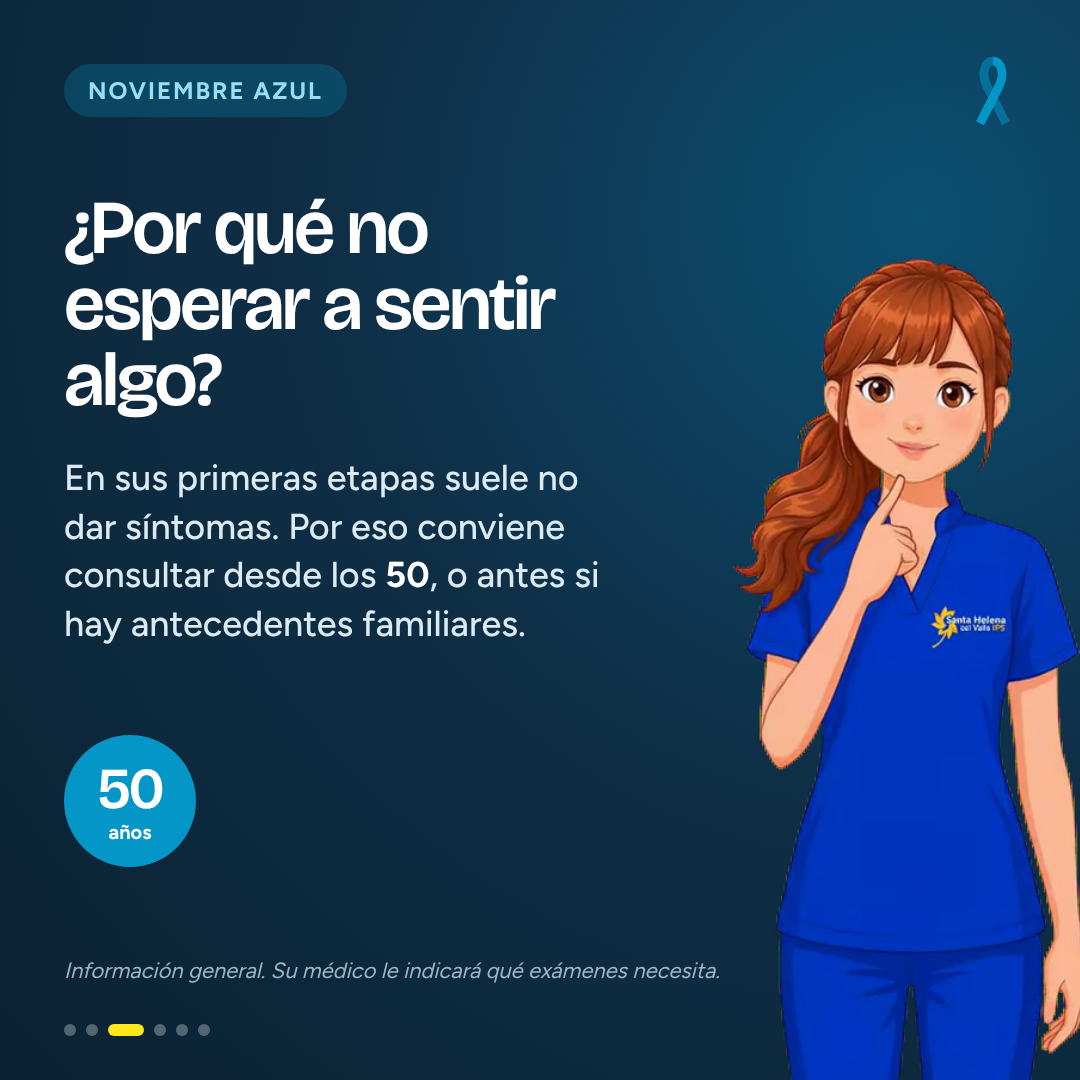
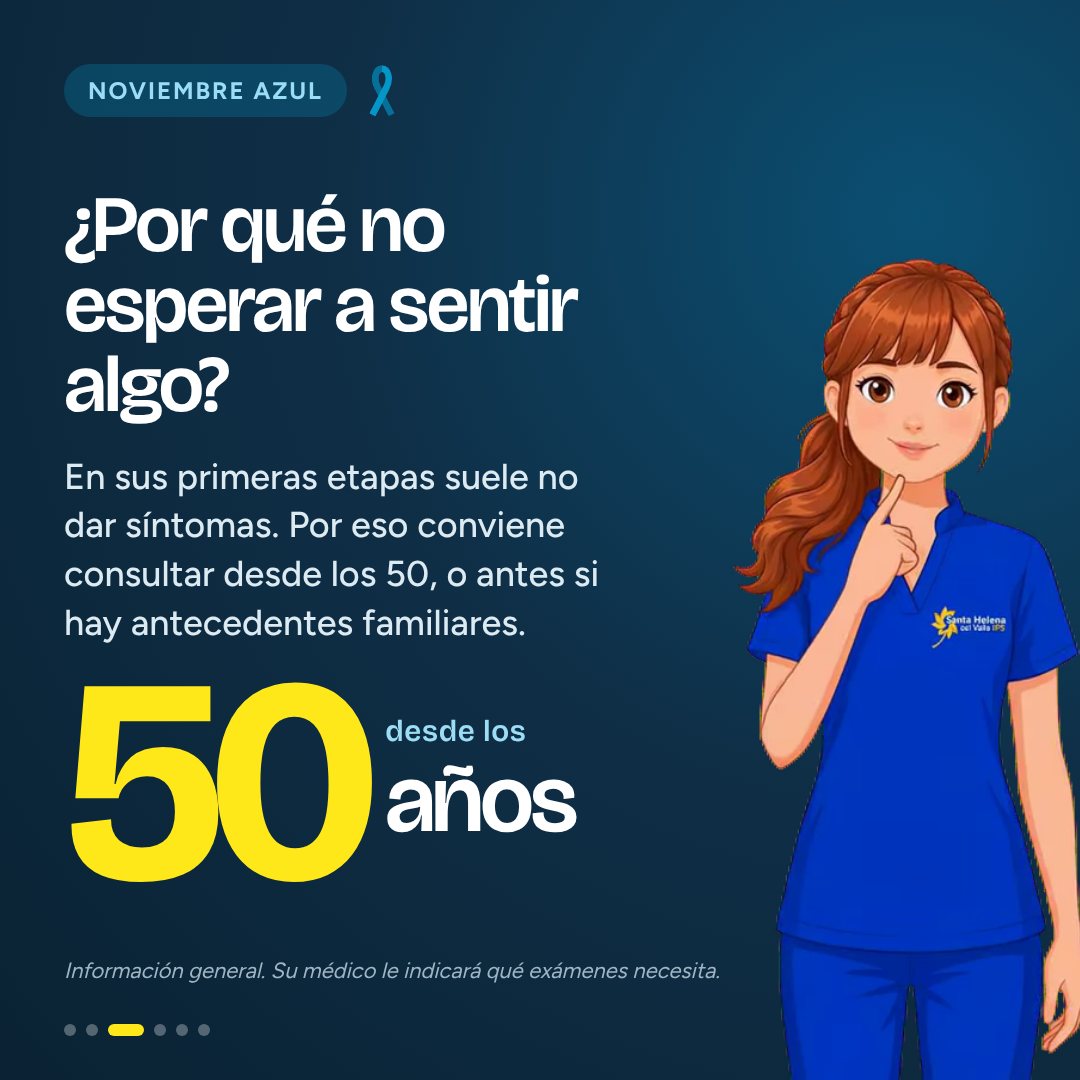
Carrusel Noviembre Azul v2: correcciones del dueño en láminas 3, 4 y 5 y alineación
Claude-Session: https://claude.ai/code/session_01KgBCaN2Nb7mn6jAyyriR7q

diff --git a/entregas/creativo-instagram/2026-10-30-carrusel-noviembre-azul/fuente/carrusel.html b/entregas/creativo-instagram/2026-10-30-carrusel-noviembre-azul/fuente/carrusel.html
@@ -52,14 +52,17 @@ h2{font-size:76px}
   </defs>
 </svg>
 
+<style>
+.col{position:absolute;left:64px;display:flex;flex-direction:column;justify-content:center;align-items:flex-start}
+</style>
 <!-- 1 PORTADA -->
 <section class="slide dark" id="l1">
   <img class="flor" src="img/sol.png" style="right:-160px;top:-180px">
   <img class="logo" src="img/logo-lema.png" style="left:64px;top:56px;width:250px">
-  <svg class="liston" style="left:64px;top:250px;width:70px;height:105px"><use href="#liston"/></svg>
-  <div style="position:absolute;left:64px;top:380px;width:600px">
+  <div class="col" style="top:210px;bottom:110px;width:600px">
+    <svg style="width:64px;height:96px;margin-bottom:30px"><use href="#liston"/></svg>
     <h1>Noviembre <span class="azul">Azul</span>: cuidarse también es de hombres</h1>
-    <p class="apoyo" style="margin-top:36px;width:520px">Hola, soy Helenita, de Santa Helena del Valle IPS. Este mes le cuento cómo cuidar la salud del hombre.</p>
+    <p class="apoyo" style="margin-top:34px;width:520px">Hola, soy Helenita, de Santa Helena del Valle IPS. Este mes le cuento cómo cuidar la salud del hombre.</p>
   </div>
   <img class="helenita" src="img/helenita-saludar.png" style="right:-250px">
   <div class="pie"><div class="puntos"><i class="on"></i><i></i><i></i><i></i><i></i><i></i></div><span style="margin-right:330px;opacity:.85">Deslice →</span></div>
@@ -70,10 +73,10 @@ h2{font-size:76px}
   <img class="flor" src="img/sol.png" style="left:-200px;bottom:-260px">
   <img class="logo" src="img/logo.png" style="right:64px;top:56px;width:190px">
   <div style="position:absolute;left:64px;top:64px"><span class="etiqueta">Noviembre Azul</span></div>
-  <svg class="liston" style="left:64px;top:190px;width:150px;height:225px"><use href="#liston"/></svg>
-  <div style="position:absolute;left:64px;top:450px;width:500px">
+  <div class="col" style="top:170px;bottom:110px;width:520px">
+    <svg style="width:120px;height:180px;margin-bottom:36px"><use href="#liston"/></svg>
     <h2>¿Qué es Noviembre Azul?</h2>
-    <p class="apoyo" style="margin-top:32px">Durante este mes hablamos de la salud del hombre. El listón azul invita a prevenir el cáncer de próstata, sin pena.</p>
+    <p class="apoyo" style="margin-top:30px;width:500px">Durante este mes hablamos de la salud del hombre. El listón azul invita a prevenir el cáncer de próstata, sin pena.</p>
   </div>
   <img class="helenita" src="img/helenita-hablar.png" style="right:-250px">
   <div class="pie"><div class="puntos" style="color:var(--navy)"><i></i><i class="on"></i><i></i><i></i><i></i><i></i></div></div>
@@ -82,14 +85,17 @@ h2{font-size:76px}
 <!-- 3 POR QUÉ NO ESPERAR -->
 <section class="slide dark" id="l3">
   <img class="flor" src="img/sol.png" style="right:-180px;bottom:-240px">
-  <div style="position:absolute;left:64px;top:64px"><span class="etiqueta">Noviembre Azul</span></div>
-  <svg class="liston" style="right:64px;top:56px;width:46px;height:69px"><use href="#liston"/></svg>
-  <div style="position:absolute;left:64px;top:190px;width:600px">
-    <h2>¿Por qué no esperar a sentir algo?</h2>
-    <p class="apoyo" style="margin-top:36px;width:540px">En sus primeras etapas suele no dar síntomas. Por eso conviene consultar desde los <b style="color:#fff">50</b>, o antes si hay antecedentes familiares.</p>
-  </div>
-  <div style="position:absolute;left:64px;top:735px;display:flex;align-items:center;gap:20px">
-    <div style="width:132px;height:132px;border-radius:50%;background:var(--azul);display:flex;flex-direction:column;align-items:center;justify-content:center;font-family:'Bricolage Grotesque';font-weight:600;line-height:1"><span style="font-size:58px;letter-spacing:-.04em">50</span><span style="font-family:Figtree;font-size:20px;font-weight:700;margin-top:4px">años</span></div>
+  <div style="position:absolute;left:64px;top:64px;display:flex;align-items:center;gap:18px"><span class="etiqueta">Noviembre Azul</span><svg style="width:34px;height:51px"><use href="#liston"/></svg></div>
+  <div class="col" style="top:150px;bottom:150px;width:600px">
+    <h2 style="font-size:80px">¿Por qué no esperar a sentir algo?</h2>
+    <p class="apoyo" style="margin-top:28px;width:560px">En sus primeras etapas suele no dar síntomas. Por eso conviene consultar desde los 50, o antes si hay antecedentes familiares.</p>
+    <div style="margin-top:22px;display:flex;align-items:center;gap:22px">
+      <span style="font-family:'Bricolage Grotesque';font-weight:700;font-size:290px;line-height:.78;letter-spacing:-.06em;color:var(--amarillo)">50</span>
+      <span style="display:flex;flex-direction:column;line-height:1;font-family:'Bricolage Grotesque';font-weight:600">
+        <span style="font-size:30px;color:#9BDDF5;letter-spacing:.02em;margin-bottom:6px">desde los</span>
+        <span style="font-size:96px;color:#fff;letter-spacing:-.04em">años</span>
+      </span>
+    </div>
   </div>
   <p style="position:absolute;left:64px;bottom:96px;font-size:22px;color:#9FB5C4;font-style:italic">Información general. Su médico le indicará qué exámenes necesita.</p>
   <img class="helenita" src="img/helenita-pensar.png" style="right:-260px">
@@ -98,25 +104,24 @@ h2{font-size:76px}
 
 <!-- 4 SEÑALES -->
 <section class="slide light" id="l4">
-  <img class="flor" src="img/sol.png" style="right:-220px;top:-220px">
-  <svg class="liston" style="right:64px;top:56px;width:46px;height:69px"><use href="#liston"/></svg>
-  <div style="position:absolute;left:64px;top:64px;width:860px">
-    <span class="etiqueta">Noviembre Azul</span>
-    <h2 style="margin-top:28px">Señales para consultar a su médico</h2>
+  <img class="flor" src="img/sol.png" style="left:-120px;bottom:-330px">
+  <img class="helenita" src="img/helenita-senalar.png" style="left:-325px;bottom:140px;width:820px;height:820px;-webkit-mask-image:linear-gradient(to bottom,#000 74%,transparent 96%);mask-image:linear-gradient(to bottom,#000 74%,transparent 96%)">
+  <div style="position:absolute;left:530px;top:118px;width:486px">
+    <div style="display:flex;align-items:center;gap:18px"><span class="etiqueta">Noviembre Azul</span><svg style="width:34px;height:51px"><use href="#liston"/></svg></div>
+    <h2 style="margin-top:26px;font-size:68px">Señales para consultar a su médico</h2>
   </div>
-  <img class="helenita" src="img/helenita-senalar.png" style="left:-300px;width:820px;height:820px">
-  <div style="position:absolute;left:400px;top:330px;width:616px">
-    <ul style="list-style:none;display:flex;flex-direction:column;gap:16px">
+  <div style="position:absolute;left:530px;top:462px;width:486px">
+    <ul style="list-style:none;display:flex;flex-direction:column;gap:14px">
       <li class="item">Orinar muy seguido de noche</li>
       <li class="item">Chorro débil</li>
       <li class="item">Dificultad para orinar</li>
       <li class="item">Sangre en orina o semen</li>
     </ul>
+    <p style="margin-top:30px;text-align:center;font-size:27px;line-height:1.35;color:var(--gris);font-weight:600">Pueden tener otras causas:<br>su médico lo evalúa.</p>
   </div>
-  <p style="position:absolute;left:560px;top:752px;width:456px;font-size:28px;line-height:1.35;color:var(--gris);font-weight:600">Pueden tener otras causas: su médico lo evalúa.</p>
   <style>
-    .item{background:#fff;border-radius:30px;padding:24px 28px;font-size:34px;font-weight:700;display:flex;align-items:center;gap:22px}
-    .item::before{content:"";flex:none;width:22px;height:22px;border-radius:50%;background:var(--azul);box-shadow:0 0 0 8px rgba(5,150,200,.18)}
+    .item{background:#fff;border-radius:30px;padding:20px 24px;font-size:30px;font-weight:700;display:flex;align-items:center;gap:20px;white-space:nowrap}
+    .item::before{content:"";flex:none;width:20px;height:20px;border-radius:50%;background:var(--azul);box-shadow:0 0 0 7px rgba(5,150,200,.18)}
   </style>
   <div class="pie"><span></span><div class="puntos" style="color:var(--navy)"><i></i><i></i><i></i><i class="on"></i><i></i><i></i></div></div>
 </section>
@@ -125,11 +130,11 @@ h2{font-size:76px}
 <section class="slide deep" id="l5">
   <img class="flor" src="img/sol.png" style="left:-220px;top:-240px">
   <img class="logo" src="img/logo-lema.png" style="left:64px;top:48px;width:200px">
-  <div style="position:absolute;left:64px;top:190px;width:900px">
+  <div style="position:absolute;left:64px;top:190px;width:952px">
     <h2>Aquí lo acompañamos en cada paso</h2>
-    <p class="apoyo" style="margin-top:22px;width:940px;font-size:32px">Consulta de medicina general y medicina interna, y toma de muestras de laboratorio que su médico le ordene. En nuestras tres sedes.</p>
+    <p class="apoyo" style="margin-top:22px;font-size:33px">Consulta de medicina general y medicina interna, y toma de muestras de laboratorio que su médico le ordene.</p>
   </div>
-  <div style="position:absolute;left:64px;right:64px;top:548px;display:grid;grid-template-columns:repeat(3,1fr);gap:22px">
+  <div style="position:absolute;left:64px;right:64px;top:470px;display:grid;grid-template-columns:repeat(3,1fr);gap:22px">
     <div class="serv">
       <svg viewBox="0 0 64 64"><path d="M18 8v18a12 12 0 0 0 24 0V8" /><path d="M30 38v6a12 12 0 0 0 24 0v-6"/><circle cx="54" cy="32" r="6"/><path d="M14 8h8M38 8h8"/></svg>
       <span>Medicina general</span>
@@ -143,36 +148,36 @@ h2{font-size:76px}
       <span>Toma de muestras</span>
     </div>
   </div>
-  <div style="position:absolute;left:64px;right:64px;top:760px;display:grid;grid-template-columns:repeat(3,1fr);gap:22px">
+  <div style="position:absolute;left:64px;right:64px;top:682px;display:grid;grid-template-columns:repeat(3,1fr);gap:22px">
     <div class="sede"><img src="img/valledupar.jpg"><span>Valledupar</span></div>
     <div class="sede"><img src="img/la-jagua.jpg"><span>La Jagua de Ibirico</span></div>
     <div class="sede"><img src="img/san-juan.jpg"><span>San Juan del Cesar</span></div>
   </div>
+  <p style="position:absolute;left:64px;right:64px;top:930px;text-align:center;font-family:'Bricolage Grotesque';font-weight:600;font-size:46px;letter-spacing:-.02em;color:#fff">En nuestras <span style="color:var(--amarillo)">tres sedes</span></p>
   <style>
     .serv{background:#fff;border-radius:30px;height:190px;display:flex;flex-direction:column;align-items:center;justify-content:center;gap:18px;color:var(--navy);font-size:28px;font-weight:700}
     .serv svg{width:84px;height:84px;fill:none;stroke:var(--azul);stroke-width:4.5;stroke-linecap:round;stroke-linejoin:round}
-    .sede{position:relative;height:230px;border-radius:30px;overflow:hidden}
+    .sede{position:relative;height:220px;border-radius:30px;overflow:hidden}
     .sede img{width:100%;height:100%;object-fit:cover}
     .sede span{position:absolute;left:12px;right:12px;bottom:12px;background:var(--navy);color:#fff;border-radius:999px;padding:10px 12px;text-align:center;font-size:22px;font-weight:700}
   </style>
-  <div class="pie" style="bottom:28px"><span></span><div class="puntos"><i></i><i></i><i></i><i></i><i class="on"></i><i></i></div></div>
+  <div style="position:absolute;right:64px;top:1046px" class="puntos"><i></i><i></i><i></i><i></i><i class="on" style="background:var(--amarillo)"></i><i></i></div>
 </section>
 
 <!-- 6 CTA -->
 <section class="slide dark" id="l6">
   <img class="flor" src="img/sol.png" style="right:-170px;top:-200px">
   <svg class="liston" style="left:64px;top:64px;width:56px;height:84px"><use href="#liston"/></svg>
-  <div style="position:absolute;left:64px;top:200px;width:620px">
+  <div class="col" style="top:170px;bottom:290px;width:640px">
     <h1 style="font-size:88px">Agende hoy su cita por <span style="color:var(--amarillo)">WhatsApp</span></h1>
-    <p class="apoyo" style="margin-top:32px;width:540px">Escríbanos al 311 339 8988. Cuidarse a tiempo es un acto de amor por usted y por su familia.</p>
-    <div style="margin-top:44px;display:inline-flex;align-items:center;gap:18px;background:var(--amarillo);color:var(--navy);border-radius:999px;padding:22px 40px 22px 28px;font-family:'Bricolage Grotesque';font-weight:700;font-size:52px;letter-spacing:-.02em">
+    <p class="apoyo" style="margin-top:30px;width:540px">Escríbanos al 311 339 8988. Cuidarse a tiempo es un acto de amor por usted y por su familia.</p>
+    <div style="margin-top:40px;display:inline-flex;align-items:center;gap:18px;background:var(--amarillo);color:var(--navy);border-radius:999px;padding:22px 40px 22px 28px;font-family:'Bricolage Grotesque';font-weight:700;font-size:52px;letter-spacing:-.02em">
       <svg viewBox="0 0 32 32" width="52" height="52"><path fill="#0A2233" d="M16 3a13 13 0 0 0-11.2 19.6L3 29l6.6-1.7A13 13 0 1 0 16 3zm0 23.6c-2 0-4-.6-5.7-1.6l-.4-.2-3.9 1 1-3.8-.3-.4A10.6 10.6 0 1 1 16 26.6zm5.8-7.9c-.3-.2-1.9-.9-2.2-1-.3-.1-.5-.2-.7.2l-1 1.2c-.2.2-.4.2-.7.1a8.7 8.7 0 0 1-4.3-3.8c-.3-.6.3-.5.9-1.7.1-.2 0-.4 0-.6l-1-2.4c-.3-.6-.5-.5-.7-.5h-.6c-.2 0-.6.1-.9.4-.3.3-1.1 1.1-1.1 2.7s1.2 3.2 1.3 3.4c.2.2 2.3 3.5 5.6 4.9 2.1.9 2.9 1 4 .8.6-.1 1.9-.8 2.2-1.5.3-.8.3-1.4.2-1.5-.1-.2-.3-.3-.6-.4z"/></svg>
       311 339 8988
     </div>
   </div>
   <img class="logo" src="img/logo-lema.png" style="left:64px;bottom:96px;width:300px">
   <img class="helenita" src="img/helenita-pulgar.png" style="right:-250px">
-  <div class="pie"><span></span><div class="puntos" style="margin-right:auto;margin-left:340px;display:none"></div></div>
   <div style="position:absolute;right:64px;bottom:44px" class="puntos"><i></i><i></i><i></i><i></i><i></i><i class="on" style="background:var(--amarillo)"></i></div>
 </section>
 </body>

diff --git a/entregas/creativo-instagram/2026-10-30-carrusel-noviembre-azul/LEAME.md b/entregas/creativo-instagram/2026-10-30-carrusel-noviembre-azul/LEAME.md
@@ -10,7 +10,9 @@ Estado: **borrador para aprobación del dueño**. No se ha publicado nada.
 Notas de diseño
 - Helenita: se usaron cuadros de sus animaciones ya hechas (saludar, hablar, pensar, señalar, pulgar),
   porque los PNG de `marca/img/helenita/` son todos la misma pose quieta. Sin costo de créditos.
-- El círculo «50 años» de la lámina 3 solo repite el dato del texto aprobado.
+- Versión 2 (correcciones del dueño): lámina 3 con «50 años» grande en amarillo; lámina 4 con Helenita señalando la mitad
+  de la lista y la nota centrada debajo; lámina 5 con «En nuestras tres sedes» abajo, centrado y más grande;
+  textos mejor alineados en todas.
 - Lámina 5 usa las fotos reales de las tres sedes.
 - Amarillo solo en el botón de WhatsApp, la palabra «WhatsApp» y los puntos de avance.
 
